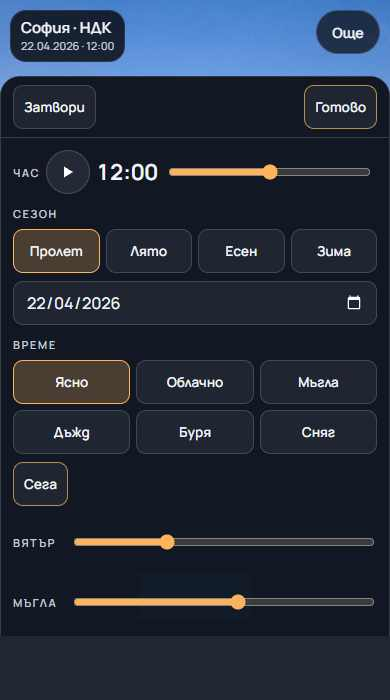
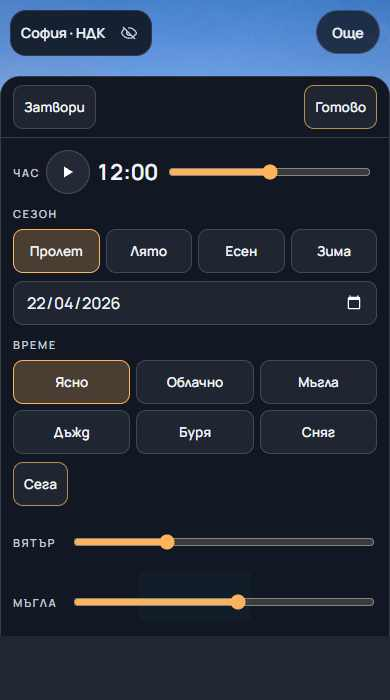
Make mobile title minimal and dismissible

Changed region(s): [[0.0308, 0.0, 0.4, 0.09]]

diff --git a/src/ui/ui.js b/src/ui/ui.js
@@ -19,7 +19,7 @@ const h = (html) => { const t = document.createElement('template'); t.innerHTML 
 export function buildUI({ state, scene, version, actions }) {
   const cfg = scene.cfg, root = document.querySelector('#app'), $ = s => root.querySelector(s);
   root.append(h(`<div class="top" id="top">
-    <div class="title"><h1>${cfg.title}</h1><button class="title-toggle" type="button" aria-haspopup="dialog" aria-controls="titleDetails"><span>София · НДК</span><span id="compactDate"></span></button><p>${cfg.subtitle} · слънцето е изчислено за ${cfg.location.name}</p><div class="readout" id="readout"></div></div>
+    <div class="title"><h1>${cfg.title}</h1><button class="title-toggle" type="button" aria-haspopup="dialog" aria-controls="credits">София · НДК</button><button class="title-hide" id="titleHide" type="button" aria-label="Скрий заглавието" title="Скрий заглавието"><svg viewBox="0 0 24 24" fill="none" stroke="currentColor" stroke-width="1.8" aria-hidden="true"><path d="M4 4l16 16M10.6 5.2A11 11 0 0 1 22 12a11 11 0 0 1-4.2 4.7M6.3 6.3A11 11 0 0 0 2 12a11 11 0 0 0 15.7 5.7M9.8 9.8a3 3 0 0 0 4.4 4.4"/></svg></button><p>${cfg.subtitle} · слънцето е изчислено за ${cfg.location.name}</p><div class="readout" id="readout"></div></div>
     <div class="tr" role="toolbar" aria-label="Режими">
       <button class="chip" id="panelBtn" type="button" aria-pressed="false" title="Скрий всичко (клавиш H)">${ICON.panel}<span>Само снимката</span></button>
       <button class="chip" id="shotBtn" type="button" title="Запази кадъра като PNG">${ICON.camera}<span>Запази кадър</span></button>
@@ -28,6 +28,7 @@ export function buildUI({ state, scene, version, actions }) {
       <button class="chip" id="soundBtn" type="button" aria-pressed="false">${ICON.sound}<span id="soundLbl">Включи звука</span></button>
       <button class="chip mobile-more" id="moreBtn" type="button" aria-expanded="false" aria-controls="mobileMenu">Още</button>
     </div></div>`));
+  root.append(h(`<button class="title-restore" id="titleRestore" type="button" aria-label="Покажи заглавието" title="Покажи заглавието"><svg viewBox="0 0 24 24" fill="none" stroke="currentColor" stroke-width="1.8" aria-hidden="true"><path d="M2 12s3.6-7 10-7 10 7 10 7-3.6 7-10 7S2 12 2 12Z"/><circle cx="12" cy="12" r="3"/></svg></button>`));
   root.append(h(`<div class="mobile-menu" id="mobileMenu" aria-label="Още действия"><button class="sec" id="menuCredits" type="button">Информация и права</button></div>`));
   root.append(h(`<button class="mobile-open" id="mobileOpen" type="button" aria-expanded="false" aria-controls="panel">Контроли</button>`));
   root.append(h(`<div class="demo-bar" id="demoBar" role="status"><span>Демо</span><button type="button" id="demoStop">Спри</button></div>`));
@@ -64,6 +65,7 @@ export function buildUI({ state, scene, version, actions }) {
     <div class="btns"><button class="pri" id="introSound" type="button">Демо със звук</button><button class="sec" id="introKeep" type="button">Гледай демото</button><button class="sec" id="introExplore" type="button">Разгледай сам</button></div></div>`));
   root.append(h(`<dialog class="credits" id="credits" aria-labelledby="creditsTitle">
     <h2 id="creditsTitle">Информация и права</h2>
+    <div class="mobile-scene-info"><h3>${cfg.title}</h3><div class="readout" id="detailsReadout"></div></div>
     <p>Снимката на НДК е на автора на проекта. Вариантите за сезони, час и време са направени с изкуствен интелект върху нея, а маските, дълбочината и движението са изчислени. Всички изображения: <b>всички права запазени</b>. Изходният код: MIT (виж <a href="./THIRD-PARTY-LICENSES.txt" target="_blank" rel="noopener">пълните лицензи</a>).</p>
     <ul>
       <li><b>Дълбочина:</b> Depth Anything V2 Small (Apache-2.0), Yang и др., 2024.</li>
@@ -74,7 +76,6 @@ export function buildUI({ state, scene, version, actions }) {
     <p class="muted">Симулация, не прогноза. Звукът е синтезиран в браузъра. Приложението не събира данни и не ползва бисквитки; в браузъра се пази само бележка, че си видял въведението.</p>
     <div class="btns"><button type="button" class="pri" id="creditsClose">Затвори</button></div>
   </dialog>`));
-  root.append(h(`<dialog class="title-details" id="titleDetails" aria-labelledby="detailsTitle"><h2 id="detailsTitle">${cfg.title}</h2><p>${cfg.subtitle} · слънцето е изчислено за ${cfg.location.name}</p><div class="readout" id="detailsReadout"></div><button type="button" class="sec" id="detailsClose">Затвори</button></dialog>`));
   root.append(h(`<div class="toast" id="toast" role="status" aria-live="polite"></div>`));
 
   const hourEl = $('#hour'), clockEl = $('#clock'), dateEl = $('#date'), S = state.S;
@@ -93,7 +94,7 @@ export function buildUI({ state, scene, version, actions }) {
     readout(alt) {
       const pos = alt > 0.5 ? `Слънцето е ${Math.round(alt)}° над хоризонта` : alt > -0.833 ? 'Слънцето е на хоризонта' : `Слънцето е ${Math.round(-alt)}° под хоризонта`;
       const html = `<b>${S.d} ${MONTHS[S.m]} ${S.y} · ${formatClock(S.hour)}</b><span class="readout-details"><br>${pos}<br>Изгрев ${formatClock(state.times.rise)} · Залез ${formatClock(state.times.set)}</span>`;
-      if (html !== ui._ro) { ui._ro = html; $('#readout').innerHTML = html; $('#detailsReadout').innerHTML = html; $('#compactDate').textContent = `${String(S.d).padStart(2, '0')}.${String(S.m + 1).padStart(2, '0')}.${S.y} · ${formatClock(S.hour)}`; }
+      if (html !== ui._ro) { ui._ro = html; $('#readout').innerHTML = html; $('#detailsReadout').innerHTML = html; }
     },
     setPhotoMode(on) { document.body.classList.toggle('photo', on); $('#panelBtn').setAttribute('aria-pressed', String(on)); if (on) { $('#photoExit').focus({ preventScroll: true }); ui.toast('Само снимката. Натисни H или Esc, за да върнеш управлението.', 2600); } else $('#panelBtn').focus({ preventScroll: true }); },
     get photoMode() { return document.body.classList.contains('photo'); },
@@ -126,15 +127,13 @@ export function buildUI({ state, scene, version, actions }) {
   $('#introKeep').addEventListener('click', () => ui.hideIntro());
   $('#introExplore').addEventListener('click', () => { actions.demo(false); ui.hideIntro(); });
   const dlg = $('#credits'), opener = $('#creditsBtn');
-  opener.addEventListener('click', () => dlg.showModal());
+  let creditsReturn = opener;
+  const openCredits = button => { creditsReturn = button; dlg.showModal(); };
+  opener.addEventListener('click', () => openCredits(opener));
   $('#creditsClose').addEventListener('click', () => dlg.close());
   dlg.addEventListener('click', e => { if (e.target === dlg) dlg.close(); });   // click on the backdrop
-  dlg.addEventListener('close', () => {
-    const returnButton = matchMedia('(max-width: 820px), (max-height: 500px)').matches && !$('#panel').classList.contains('is-open') ? $('#moreBtn') : opener;
-    returnButton.focus({ preventScroll: true });
-  });
-  $('#detailsClose').addEventListener('click', () => $('#titleDetails').close());
-  const mobileSheet = installMobileSheet(root);
+  dlg.addEventListener('close', () => creditsReturn.focus({ preventScroll: true }));
+  const mobileSheet = installMobileSheet(root, openCredits);
   addEventListener('keydown', e => {
     if (e.defaultPrevented || e.ctrlKey || e.metaKey || e.altKey || dlg.open) return;   // a modal dialog owns the keyboard
     const typing = e.target instanceof HTMLInputElement && e.target.type !== 'range';

diff --git a/src/ui/ui.css b/src/ui/ui.css
@@ -60,13 +60,8 @@ input[type=date] { min-height: 36px; border-radius: 10px; border: 1px solid var(
 .sheet-handle { display: none; }
 .sheet-pinned { display: contents; }
 .title-toggle { display: none; }
+.title-hide, .title-restore, .mobile-scene-info { display: none; }
 .mobile-more, .mobile-menu, .mobile-open, .mobile-sheet-header { display: none; }
-.title-details { width: min(430px, calc(100vw - 28px)); max-height: calc(var(--visible-height) - 32px); overflow-y: auto; padding: 18px; border: 1px solid var(--line); border-radius: 16px; background: #111824; color: var(--txt); box-shadow: 0 16px 48px rgba(0,0,0,.6); }
-.title-details::backdrop { background: rgba(3,5,10,.55); }
-.title-details h2 { margin: 0 0 8px; font: 400 24px var(--serif); }
-.title-details p { margin: 0; font-size: 13px; color: var(--mut); }
-.title-details .readout { margin: 12px 0 16px; }
-.title-details button { min-height: 44px; }
 
 .caption { position: fixed; left: 50%; top: 21%; transform: translate(-50%, 8px); font-family: var(--serif); font-style: italic; font-size: clamp(20px, 2.6vw, 34px); text-align: center; color: #fff; text-shadow: 0 2px 24px rgba(0, 0, 0, .8), 0 0 3px rgba(0, 0, 0, .6); opacity: 0; transition: opacity .5s ease, transform .5s ease; pointer-events: none; z-index: 4; width: min(92vw, 900px); }
 .caption.on { opacity: 1; transform: translate(-50%, 0); }
@@ -153,11 +148,18 @@ body.photo .photo-exit:focus-visible, body.photo .photo-exit:hover { opacity: 1;
 
 @media (max-width: 820px), (max-height: 500px) {
   .top { align-items: flex-start; }
-  .title { max-width: calc(100% - 88px); min-height: 50px; padding: 4px 10px; background: rgba(10,14,22,.85); }
+  .title { display: flex; align-items: center; width: max-content; max-width: calc(100% - 88px); min-height: 46px; max-height: 48px; padding: 0 0 0 10px; background: rgba(10,14,22,.85); backdrop-filter: none; -webkit-backdrop-filter: none; }
+  body.title-hidden .title { display: none; }
   .title h1, .title p, .title > .readout { display: none; }
-  .title-toggle { display: flex; flex-direction: column; align-items: flex-start; justify-content: center; gap: 1px; width: 100%; min-height: 42px; padding: 0; border: 0; background: none; color: var(--txt); text-align: left; cursor: pointer; }
-  .title-toggle span:first-child { font: 600 15px/1.25 var(--font); white-space: nowrap; }
-  .title-toggle span:last-child { font: 500 11px/1.25 var(--font); color: var(--mut); white-space: nowrap; }
+  .title-toggle { display: block; width: auto; min-height: 44px; padding: 0 2px 0 0; border: 0; background: none; color: var(--txt); text-align: left; font: 600 14px/1.2 var(--font); white-space: nowrap; cursor: pointer; }
+  .title-hide { display: grid; place-items: center; flex: none; width: 44px; height: 44px; padding: 0; border: 0; background: none; color: var(--mut); cursor: pointer; }
+  .title-restore { position: fixed; left: max(10px, env(safe-area-inset-left)); top: calc(var(--visible-top) + max(10px, env(safe-area-inset-top))); z-index: 6; place-items: center; width: 44px; height: 44px; padding: 0; border: 1px solid var(--line); border-radius: 14px; background: rgba(10,14,22,.85); color: var(--txt); cursor: pointer; }
+  body.title-hidden .title-restore { display: grid; }
+  body.photo .title-restore { display: none; }
+  .title-hide svg, .title-restore svg { width: 18px; height: 18px; }
+  .mobile-scene-info { display: block; border-bottom: 1px solid var(--line); margin-bottom: 14px; padding-bottom: 12px; }
+  .mobile-scene-info h3 { margin: 0 0 8px; font: 400 22px/1.2 var(--serif); }
+  .mobile-scene-info .readout { margin: 0; }
   .tr { flex: 0 0 auto; }
   .mobile-more { display: inline-flex; min-width: 64px; }
   .mobile-open { display: block; position: fixed; left: 50%; bottom: calc(var(--visible-bottom) + env(safe-area-inset-bottom) + 16px); transform: translateX(-50%); z-index: 8; min-width: 112px; min-height: 48px; padding: 0 18px; border: 1px solid var(--acc); border-radius: 999px; background: #131a27; color: var(--txt); font: 700 14px var(--font); box-shadow: 0 4px 20px rgba(0,0,0,.45); cursor: pointer; }
@@ -177,7 +179,7 @@ body.photo .photo-exit:focus-visible, body.photo .photo-exit:hover { opacity: 1;
   .mobile-menu .chip svg { flex: none; }
   .demo-bar { top: auto; bottom: calc(var(--visible-bottom) + env(safe-area-inset-bottom) + 76px); }
   .toast { top: auto; bottom: calc(var(--visible-bottom) + env(safe-area-inset-bottom) + 76px); }
-  .mobile-open:focus-visible, .mobile-menu button:focus-visible, .mobile-sheet-header button:focus-visible { outline: 3px solid var(--acc); outline-offset: 2px; }
+  .mobile-open:focus-visible, .mobile-menu button:focus-visible, .mobile-sheet-header button:focus-visible, .title-hide:focus-visible, .title-restore:focus-visible { outline: 3px solid var(--acc); outline-offset: 2px; }
 }
 @media (max-height: 500px) and (min-width: 600px) {
   .title { max-width: min(220px, calc(100% - 88px)); }

diff --git a/src/ui/mobile-sheet.js b/src/ui/mobile-sheet.js
@@ -1,4 +1,4 @@
-export function installMobileSheet(root) {
+export function installMobileSheet(root, openCredits) {
   const panel = root.querySelector('#panel');
   const openButton = root.querySelector('#mobileOpen');
   const menu = root.querySelector('#mobileMenu');
@@ -52,12 +52,21 @@ export function installMobileSheet(root) {
   menu.addEventListener('click', event => {
     if (event.target.closest('button')) closeMenu();
   });
-  root.querySelector('#menuCredits').addEventListener('click', () => root.querySelector('#credits').showModal());
+  root.querySelector('#menuCredits').addEventListener('click', () => openCredits(moreButton));
 
   const titleToggle = root.querySelector('.title-toggle');
-  const titleDetails = root.querySelector('#titleDetails');
-  titleToggle.addEventListener('click', () => titleDetails.showModal());
-  titleDetails.addEventListener('close', () => titleToggle.focus({ preventScroll: true }));
+  titleToggle.addEventListener('click', () => openCredits(titleToggle));
+  const titleHide = root.querySelector('#titleHide');
+  const titleRestore = root.querySelector('#titleRestore');
+  const titleKey = 'btty.titleHidden';
+  function setTitleHidden(hidden) {
+    document.body.classList.toggle('title-hidden', hidden);
+    try { sessionStorage.setItem(titleKey, hidden ? '1' : '0'); } catch { /* Storage may be blocked in an in-app browser. */ }
+    (hidden ? titleRestore : titleHide).focus({ preventScroll: true });
+  }
+  titleHide.addEventListener('click', () => setTitleHidden(true));
+  titleRestore.addEventListener('click', () => setTitleHidden(false));
+  try { document.body.classList.toggle('title-hidden', sessionStorage.getItem(titleKey) === '1'); } catch { /* Use the visible title. */ }
   for (const button of secondary) button.setAttribute('aria-label', button.querySelector('span').textContent);
 
   function layout() {
